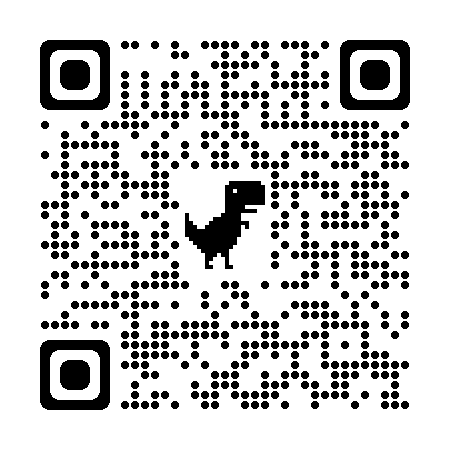
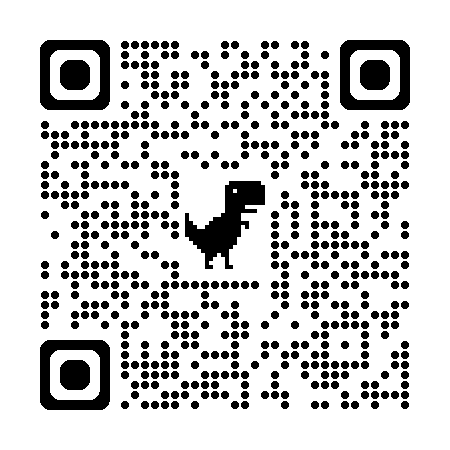
Update responsive layout slides and dependencies

diff --git a/deck/lib/slides/devices_table_slide.dart b/deck/lib/slides/devices_table_slide.dart
@@ -18,7 +18,7 @@ class DevicesTableSlide extends FlutterDeckSlideWidget {
           const FlutterDeckHeader(title: 'Devices Table'),
       builder: (context) => Markdown(
           styleSheet: MarkdownStyleSheet(
-            tableBody: const TextStyle(fontSize: 26),
+            tableBody: const TextStyle(fontSize: 24),
           ),
           padding: const EdgeInsets.all(32),
           selectable: true,
@@ -26,14 +26,14 @@ class DevicesTableSlide extends FlutterDeckSlideWidget {
 # What device should you use for testing your app with different screen sizes?
 
 
-| Environment               | HotReload |        Resizable Window         | Text Scaling | UI Scaling |
-| ------------------------- | :-------: | :-----------------------------: | :----------: | :--------: |
-| Windows/Mac/Linux         |    Yes    |               Yes               |     Yes      |    Yes     |
-| Web                       |    No     |               Yes               |     Yes      |    Yes     |
-| Android Emulator          |    Yes    | Experimental (only breakpoints) |     Yes      |    Yes     |
-| iOS Simulator             |    Yes    |               No                |     Yes      |    Yes     |
-| iPadOS (Stage Manager) [iOS Target]    |    Yes    |             Limited             |     Yes      |    Yes     |
-| MacOS (Designed for iPad) [iOS Target] |    Yes    |               Yes               |      No      |     No     |
+| Environment               | HotReload |        Resizable Window         | Text Scaling | UI Scaling | Lib Compatibility |
+| ------------------------- | :-------: | :-----------------------------: | :----------: | :--------: | :---------------: |
+| Windows/Mac/Linux         |    Yes    |               Yes               |     Yes      |    Yes     |      Middle       |
+| Web                       |    No     |               Yes               |     Yes      |    Yes     |        Low        |
+| Android Emulator          |    Yes    | Experimental (only breakpoints) |     Yes      |    Yes     |       High        |
+| iOS Simulator             |    Yes    |               No                |     Yes      |    Yes     |       High        |
+| iPadOS (Stage Manager)    |    Yes    |             Limited             |     Yes      |    Yes     |       High        |
+| MacOS (Designed for iPad) |    Yes    |               Yes               |      No      |     No     |       High        |
 
 # See the README.md for more details.
 '''),

diff --git a/deck/lib/slides/approach_slide.dart b/deck/lib/slides/approach_slide.dart
@@ -1,5 +1,4 @@
 import 'package:flutter/material.dart';
-import 'package:flutter/widgets.dart';
 import 'package:flutter_deck/flutter_deck.dart';
 
 class ApproachSlide extends FlutterDeckSlideWidget {
@@ -16,16 +15,20 @@ class ApproachSlide extends FlutterDeckSlideWidget {
         headerBuilder: (context) => const FlutterDeckHeader(
               title: 'General Approach',
             ),
-        builder: (context) => const Padding(
-              padding: EdgeInsets.all(64),
+        builder: (context) => Padding(
+              padding: const EdgeInsets.all(64),
               child: Column(
                 crossAxisAlignment: CrossAxisAlignment.start,
                 children: [
-                  Image(image: AssetImage('approach.png')),
-                  SizedBox(height: 16),
                   Text(
+                      'The general approach on creating responsive widgets is explained in detailed by the Flutter Team:',
+                      style: Theme.of(context).textTheme.headlineMedium),
+                  const SizedBox(height: 32),
+                  const Image(image: AssetImage('approach.png')),
+                  const SizedBox(height: 16),
+                  const Text(
                       'Read more: https://docs.flutter.dev/ui/adaptive-responsive'),
-                  Text(
+                  const Text(
                       'Watch on YouTube: https://www.youtube.com/watch?v=LeKLGzpsz9I'),
                 ],
               ),

diff --git a/deck/lib/slides/measure_slide.dart b/deck/lib/slides/measure_slide.dart
@@ -20,6 +20,7 @@ class MeasureSlide extends FlutterDeckSlideWidget {
         padding: const EdgeInsets.all(64),
         child: Column(
           crossAxisAlignment: CrossAxisAlignment.start,
+          mainAxisAlignment: MainAxisAlignment.center,
           children: [
             Text('MediaQuery',
                 style: Theme.of(context).textTheme.headlineLarge),
@@ -28,7 +29,7 @@ class MeasureSlide extends FlutterDeckSlideWidget {
 - Provides the size of the window
 - Should be used only for root Layout Widgets
 - Use  `sizeoOf` method to get the size to prevent unnecessary rebuilds
-''', style: Theme.of(context).textTheme.headlineSmall),
+''', style: Theme.of(context).textTheme.headlineMedium),
             const SizedBox(height: 16),
             Text('LayoutBuilder',
                 style: Theme.of(context).textTheme.headlineLarge),
@@ -36,16 +37,7 @@ class MeasureSlide extends FlutterDeckSlideWidget {
             Text('''
 - Provides the size of the parent widget
 - Should be generally used
-''', style: Theme.of(context).textTheme.headlineSmall),
-            const SizedBox(height: 16),
-            Text('Other Widgets',
-                style: Theme.of(context).textTheme.headlineLarge),
-            const SizedBox(height: 8),
-            Text('''
-- ConstrainedBox
-- FractionallySizedBox
-- ...
-''', style: Theme.of(context).textTheme.headlineSmall),
+''', style: Theme.of(context).textTheme.headlineMedium),
           ],
         ),
       ),

diff --git a/deck/lib/slides/thank_you_slide.dart b/deck/lib/slides/thank_you_slide.dart
@@ -17,19 +17,19 @@ class ThankYouSlide extends FlutterDeckSlideWidget {
               child: Column(
                   mainAxisAlignment: MainAxisAlignment.center,
                   crossAxisAlignment: CrossAxisAlignment.center,
-                  children: <Widget>[
+                  children: [
                     Text('Thank You!',
                         style: Theme.of(context).textTheme.displayLarge),
                     const SizedBox(height: 64),
                     Image.asset(
-                      'assets/qrcode_linkedIn.png',
+                      'assets/qrcode_github.png',
                       width: 250,
                     ),
-                    const SizedBox(height: 16),
-                    Text('Scan to know how to connect with me',
+                    const SizedBox(height: 32),
+                    Text('Scan to to connect with me',
                         style: Theme.of(context).textTheme.headlineMedium),
                     const SizedBox(height: 64),
-                    Text('You can find me on LinkedIn, GitHub, X and Medium!',
+                    Text('You can find me on LinkedIn, GitHub and X!',
                         style: Theme.of(context).textTheme.headlineMedium),
                   ]),
             ));

diff --git a/deck/lib/slides/branch_slide.dart b/deck/lib/slides/branch_slide.dart
@@ -1,3 +1,4 @@
+import 'package:flutter/material.dart';
 import 'package:flutter/widgets.dart';
 import 'package:flutter_deck/flutter_deck.dart';
 
@@ -11,12 +12,15 @@ class BranchSlide extends FlutterDeckSlideWidget {
 
   @override
   FlutterDeckSlide build(BuildContext context) {
-    return FlutterDeckSlide.bigFact(
-      headerBuilder: (context) => const FlutterDeckHeader(
-        title: 'Branch',
-      ),
-      title:
-          'Decide what sizing breakpoints to use when choosing what version of the UI to display',
-    );
+    return FlutterDeckSlide.blank(
+        headerBuilder: (context) => const FlutterDeckHeader(
+              title: 'Branch',
+            ),
+        builder: (context) => Center(
+                child: Text(
+              'Decide what sizing breakpoints to use \n when choosing what version of the UI to display',
+              style: Theme.of(context).textTheme.headlineLarge,
+              textAlign: TextAlign.center,
+            )));
   }
 }

diff --git a/deck/lib/main.dart b/deck/lib/main.dart
@@ -60,8 +60,10 @@ class FlutterDeckExample extends StatelessWidget {
       themeMode: ThemeMode.system,
       client: FlutterDeckWebClient(),
       configuration: const FlutterDeckConfiguration(
-          controls:
-              FlutterDeckControlsConfiguration(presenterToolbarVisible: true),
+          slideSize: FlutterDeckSlideSize.responsive(),
+          controls: FlutterDeckControlsConfiguration(
+            presenterToolbarVisible: false,
+          ),
           header: FlutterDeckHeaderConfiguration(
             showHeader: true,
             title: 'Responsive Design in Flutter',
@@ -93,10 +95,10 @@ class FlutterDeckExample extends StatelessWidget {
         Layout3Slide(),
         Layout3DemoSlide(),
         ApproachSlide(),
+        ReponsiveVsAdaptiveSlide(),
         AbstractSlide(),
         MeasureSlide(),
         BranchSlide(),
-        ReponsiveVsAdaptiveSlide(),
         TestingSlide(),
         BestPractisesSlide(),
         ThankYouSlide(),

diff --git a/deck/lib/slides/abstract_slide.dart b/deck/lib/slides/abstract_slide.dart
@@ -19,6 +19,7 @@ class AbstractSlide extends FlutterDeckSlideWidget {
               padding: const EdgeInsets.all(64),
               child: Column(
                 crossAxisAlignment: CrossAxisAlignment.center,
+                mainAxisAlignment: MainAxisAlignment.center,
                 children: [
                   Text('Identify the widgets that you plan to make responsive.',
                       style: Theme.of(context).textTheme.headlineLarge),
@@ -29,7 +30,7 @@ class AbstractSlide extends FlutterDeckSlideWidget {
         - Navigation UI, both rail and bottom bar
         - Custom layout, such as "is the UI area taller or wider?"
         ''',
-                    style: Theme.of(context).textTheme.headlineSmall,
+                    style: Theme.of(context).textTheme.headlineMedium,
                   ),
                 ],
               ),

diff --git a/deck/lib/slides/responsive_challanges_slide.dart b/deck/lib/slides/responsive_challanges_slide.dart
@@ -19,7 +19,7 @@ class ResponsiveChallengesSlide extends FlutterDeckSlideWidget {
           useSteps: true,
           items: const [
             'Many different Form Factors (Phone, Tablet, Desktop, Foldable, ...)',
-            'Notches, Cutouts, Punch holes',
+            'Notches, Cutouts, Punch holes, Dynamic Island',
             'Scaling UI and Text for accessibility',
             'Different behaviors for different platforms',
             'Supporting RTL and LTR languages',

diff --git a/README.md b/README.md
@@ -25,6 +25,10 @@ If you have any questions, feedback, or suggestions, feel free to reach out to m
     - [Screen-based Breakpoints](#screen-based-breakpoints)
     - [Device Segmentation](#device-segmentation)
     - [Style File](#style-file)
+    - [General Approach](#general-approach)
+      - [Abstract](#abstract)
+      - [Measure](#measure)
+      - [Branch](#branch)
   - [Basic Layout](#basic-layout)
     - [Layout Foundation](#layout-foundation)
     - [Building the Responsive Layout](#building-the-responsive-layout)
@@ -80,14 +84,14 @@ Before diving into coding, setting up the right device and understanding key con
 ### Recommended Emulators/Simulators or Devices
 Choose a device that you can test your app on:
 
-| Environment               | HotReload |        Resizable Window         | Text Scaling | UI Scaling |
-| ------------------------- | :-------: | :-----------------------------: | :----------: | :--------: |
-| Windows/Mac/Linux         |    Yes    |               Yes               |     Yes      |    Yes     |
-| Web                       |    No     |               Yes               |     Yes      |    Yes     |
-| Android Emulator          |    Yes    | Experimental (only breakpoints) |     Yes      |    Yes     |
-| iOS Simulator             |    Yes    |               No                |     Yes      |    Yes     |
-| iPadOS (Stage Manager)    |    Yes    |             Limited             |     Yes      |    Yes     |
-| MacOS (Designed for iPad) |    Yes    |               Yes               |      No      |     No     |
+| Environment               | HotReload |        Resizable Window         | Text Scaling | UI Scaling | Lib Compatibility |
+| ------------------------- | :-------: | :-----------------------------: | :----------: | :--------: | :---------------: |
+| Windows/Mac/Linux         |    Yes    |               Yes               |     Yes      |    Yes     |      Middle       |
+| Web                       |    No     |               Yes               |     Yes      |    Yes     |        Low        |
+| Android Emulator          |    Yes    | Experimental (only breakpoints) |     Yes      |    Yes     |       High        |
+| iOS Simulator             |    Yes    |               No                |     Yes      |    Yes     |       High        |
+| iPadOS (Stage Manager)    |    Yes    |             Limited             |     Yes      |    Yes     |       High        |
+| MacOS (Designed for iPad) |    Yes    |               Yes               |      No      |     No     |       High        |
 
 iPad Stage Manager:
 
@@ -146,6 +150,22 @@ bool get isDesktopDeviceOrWeb => kIsWeb || isDesktopDevice;
 
 ### Style File
 Having a style file with your app's colors, fonts, and text styles will help you maintain a consistent look and feel across your app. This will also help you in scaling your UI and text effectively when needed for different touch targets.
+
+### General Approach
+
+The general approach on creating responsive widgets is explained in detailed by the Flutter Team in their [Adaptive Responsive Guide](https://docs.flutter.dev/ui/adaptive-responsive). You can also watch the [Google I/O 2024 Talk]( https://www.youtube.com/watch?v=LeKLGzpsz9I). This is the approach in a nutshell.
+
+#### Abstract
+Identify the widgets that you plan to make responsive. 
+- Dialogs, both fullscreen and modal
+- Navigation UI, both rail and bottom bar
+- Custom layout, such as "is the UI area taller or wider?"
+
+#### Measure
+Measure the size of the widgets by using `MediaQuery` or `LayoutBuilder`. See the section [Builder vs MediaQuery](#builder-vs-mediaquery) to know more.
+
+#### Branch
+Decide what sizing breakpoints to use when choosing what version of the UI to display.
 
 ## Basic Layout
 We’ll be enhancing the classic Counter App to showcase responsive design in Flutter. The goal is to manage multiple counters and introduce a `master-detail` interface for larger screens. Take a look into the repository to find out how the different topics have been implemented in detail.

diff --git a/CONTACT.md b/CONTACT.md
@@ -1,5 +1,11 @@
-Keen to see these methods in action? Check out my app, **Yawa: Weather & Radar**, on [Android](https://play.google.com/store/apps/details?id=de.digregorio.dario.yawa) and [iOS](https://apps.apple.com/de/app/yawa-weather-forecast/id1626828365) and if you like my App Yawa, please leave a review. This would help me a lot :) ❤
+## Connect with me
+- [X/Twitter](https://twitter.com/digregoriodario)
+- [LinkedIn](https://www.linkedin.com/in/dario-digregorio-064696241/)
+- [Medium](https://dario-digregorio.medium.com)
+- [Dev.to](https://dev.to/dariodigregorio)
+
+
+## Support me by downlaoding my app :)
+Keen to see the responsive methods in action? Check out my app, **Yawa: Weather & Radar**, on [Android](https://play.google.com/store/apps/details?id=de.digregorio.dario.yawa) and [iOS](https://apps.apple.com/de/app/yawa-weather-forecast/id1626828365) and if you like my App Yawa, please leave a review. This would help me a lot :) ❤
 
 ![Yawa](docs/yawa.gif)
-
-If you have any questions or feedback, feel free to reach out on [Twitter/X](https://twitter.com/digregoriodario)!
